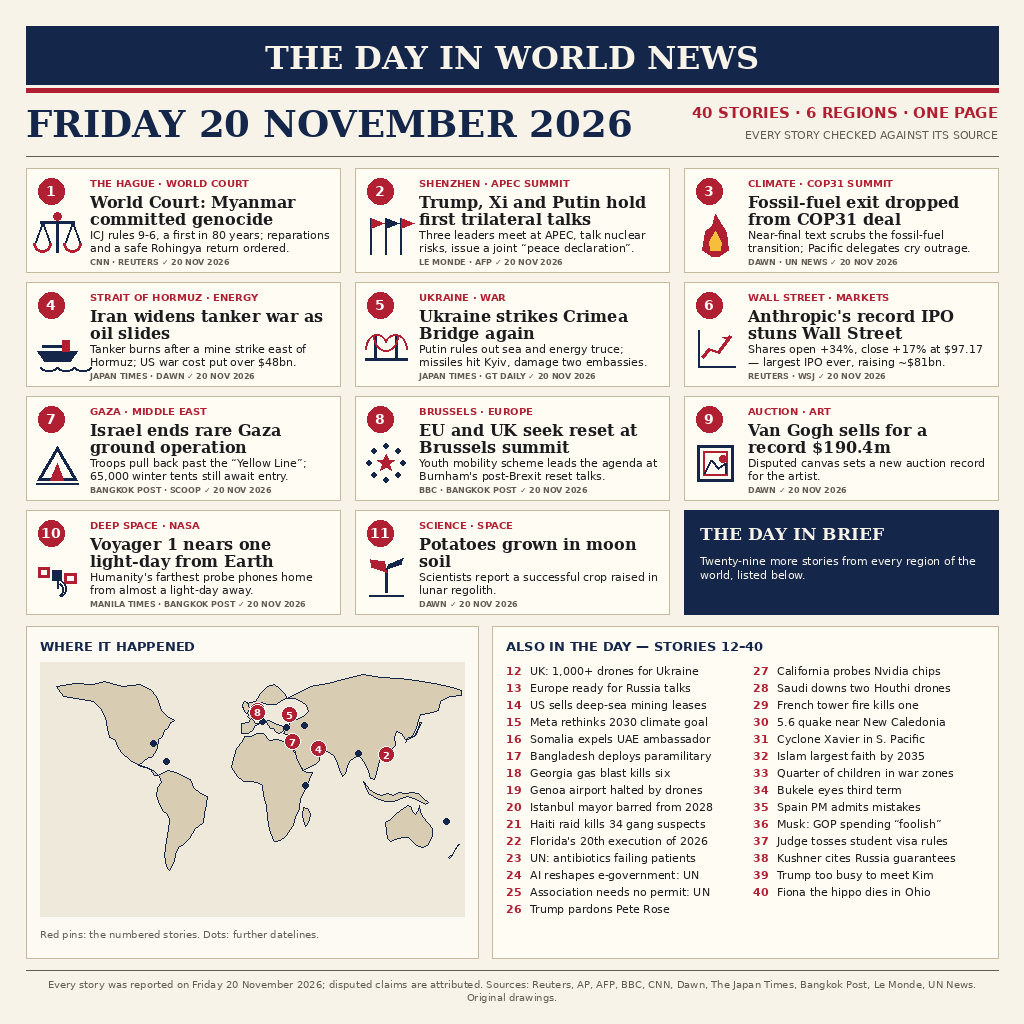
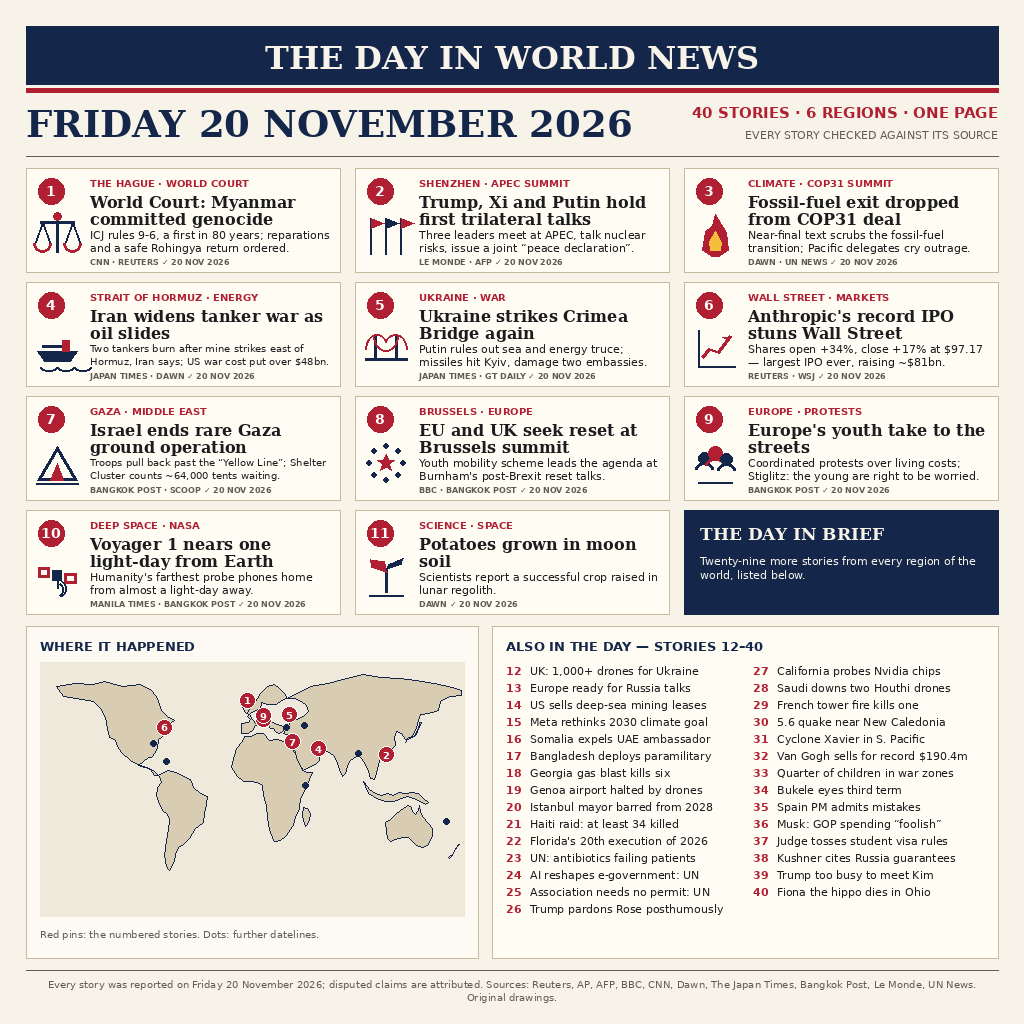
Review fixes: attribute Iran mine claim, Shelter Cluster tents figure, at-least and posthumous wording, swap Van Gogh card for 20 Nov protests, more map pins

diff --git a/build_page.py b/build_page.py
@@ -83,8 +83,8 @@ CARDS = [
     (
         "STRAIT OF HORMUZ · ENERGY",
         "Iran widens tanker war as oil slides",
-        "Tanker burns after a mine strike east of Hormuz; US war "
-        "cost put over $48bn.",
+        "Two tankers burn after mine strikes east of Hormuz, Iran "
+        "says; US war cost put over $48bn.",
         "JAPAN TIMES · DAWN",
         "tanker",
     ),
@@ -107,8 +107,8 @@ CARDS = [
     (
         "GAZA · MIDDLE EAST",
         "Israel ends rare Gaza ground operation",
-        "Troops pull back past the \u201cYellow Line\u201d; 65,000 winter "
-        "tents still await entry.",
+        "Troops pull back past the \u201cYellow Line\u201d; Shelter Cluster "
+        "counts ~64,000 tents waiting.",
         "BANGKOK POST · SCOOP",
         "tent",
     ),
@@ -121,11 +121,12 @@ CARDS = [
         "stars",
     ),
     (
-        "AUCTION · ART",
-        "Van Gogh sells for a record $190.4m",
-        "Disputed canvas sets a new auction record for the artist.",
-        "DAWN",
-        "frame",
+        "EUROPE · PROTESTS",
+        "Europe's youth take to the streets",
+        "Coordinated protests over living costs; Stiglitz: the "
+        "young are right to be worried.",
+        "BANGKOK POST",
+        "crowd",
     ),
     (
         "DEEP SPACE · NASA",
@@ -156,18 +157,18 @@ LISTED = [
     "Georgia gas blast kills six",
     "Genoa airport halted by drones",
     "Istanbul mayor barred from 2028",
-    "Haiti raid kills 34 gang suspects",
+    "Haiti raid: at least 34 killed",
     "Florida's 20th execution of 2026",
     "UN: antibiotics failing patients",
     "AI reshapes e-government: UN",
     "Association needs no permit: UN",
-    "Trump pardons Pete Rose",
+    "Trump pardons Rose posthumously",
     "California probes Nvidia chips",
     "Saudi downs two Houthi drones",
     "French tower fire kills one",
     "5.6 quake near New Caledonia",
     "Cyclone Xavier in S. Pacific",
-    "Islam largest faith by 2035",
+    "Van Gogh sells for record $190.4m",
     "Quarter of children in war zones",
     "Bukele eyes third term",
     "Spain PM admits mistakes",
@@ -303,8 +304,11 @@ CONTINENTS = [
 # plain dots for listed stories.
 PINS_NUMBERED = [
     (1, 4.9, 52.1), (2, 114.1, 22.5), (4, 56.5, 26.5), (5, 31.5, 49.0),
-    (7, 34.3, 31.4), (8, 4.35, 50.85),
+    (6, -74.0, 40.7), (7, 34.3, 31.4), (8, 4.35, 50.85), (9, 10.0, 48.5),
 ]
+# Pixel nudges so near-coincident datelines stay readable (The Hague
+# sits almost on top of Brussels at this scale).
+PIN_OFFSETS = {1: (-10, -10), 8: (6, 7)}
 PINS_DOTS = [
     (90.4, 23.8), (45.3, 2.0), (29.0, 41.0), (-72.3, 18.5),
     (165.0, -21.5), (8.9, 44.4), (-84.0, 30.4), (44.8, 41.7),
@@ -331,6 +335,8 @@ def draw_map(draw, x0, y0, w, h):
     pin_font = font(SANS_BOLD, 10)
     for number, lon, lat in PINS_NUMBERED:
         px, py = project(lon, lat)
+        ox, oy = PIN_OFFSETS.get(number, (0, 0))
+        px, py = px + ox, py + oy
         r = 8
         draw.ellipse([px - r, py - r, px + r, py + r], fill=RED,
                      outline=(255, 255, 255), width=1)
@@ -468,6 +474,17 @@ def icon_satellite(draw, x, y, s):
              300, 60, fill=NAVY, width=2)
 
 
+def icon_crowd(draw, x, y, s):
+    heads = [(0.28, 0.40, 6), (0.52, 0.30, 7), (0.74, 0.42, 6)]
+    for i, (fx, fy, r) in enumerate(heads):
+        cx, cy = x + s * fx, y + s * fy
+        draw.ellipse([cx - r, cy - r, cx + r, cy + r],
+                     fill=RED if i == 1 else NAVY)
+        draw.arc([cx - r - 3, cy + r - 2, cx + r + 3, cy + r + 12],
+                 180, 360, fill=RED if i == 1 else NAVY, width=3)
+    _line(draw, [(x + 6, y + s - 4), (x + s - 6, y + s - 4)], width=2)
+
+
 def icon_sprout(draw, x, y, s):
     cx = x + s / 2
     _line(draw, [(cx, y + s - 8), (cx, y + s * 0.34)], width=3)
@@ -484,6 +501,7 @@ ICONS = {
     "tanker": icon_tanker, "bridge": icon_bridge, "chart": icon_chart,
     "tent": icon_tent, "stars": icon_stars, "frame": icon_frame,
     "satellite": icon_satellite, "sprout": icon_sprout,
+    "crowd": icon_crowd,
 }
 
 

diff --git a/NEWS_SOURCES.md b/NEWS_SOURCES.md
@@ -18,9 +18,10 @@ item was checked against before it went on the page.
    (Science Media Centre and UN releases); Bangkok Post. Near-final
    texts eliminated the fossil-fuel transition; Pacific reaction.
 4. **Iran widens tanker war as oil slides** — The Japan Times;
-   Dawn; Daily Baku. Tanker fire after a mine strike east of the
-   Strait of Hormuz; Pentagon figure of over $48bn for the US war
-   cost, reported by Dawn.
+   Dawn; Daily Baku. Two tankers burning after mine strikes east
+   of the Strait of Hormuz (the mine claim is Iran's, and is
+   attributed to it on the page); Pentagon figure of over $48bn
+   for the US war cost, reported by Dawn.
 5. **Ukraine strikes Crimea Bridge again** — The Japan Times;
    Daily Baku; GT Daily. Putin refuses a sea or energy truce;
    ballistic missiles on Kyiv; Austrian and Dutch embassies damaged.
@@ -30,12 +31,16 @@ item was checked against before it went on the page.
    largest IPO in history.
 7. **Israel ends rare Gaza ground operation** — Bangkok Post; Scoop
    (Israeli embassy release). Withdrawal beyond the "Yellow Line";
-   nearly 65,000 approved tents awaiting entry into Gaza.
+   the Shelter Cluster count of roughly 64,000 approved tents
+   awaiting entry into Gaza is the figure used on the page
+   (other agencies cite higher counts).
 8. **EU and UK seek reset at Brussels summit** — BBC; Bangkok Post.
    Youth mobility scheme expected in the reset deal; summit hosted
    by Andy Burnham in Brussels.
-9. **Van Gogh sells for a record $190.4m** — Dawn. Record auction
-   price for the artist, reached after a dispute.
+9. **Europe's youth take to the streets** — Bangkok Post;
+   AppiSToS. Coordinated youth action across Europe over living
+   costs, housing and education, called for 20 November; Nobel
+   economist Joseph Stiglitz publicly backed the young protesters.
 10. **Voyager 1 nears one light-day from Earth** — The Manila
     Times; Bangkok Post (most-viewed list). NASA's farthest probe
     approaching the one light-day milestone.
@@ -54,7 +59,7 @@ item was checked against before it went on the page.
     Daily Baku.
 19. Genoa airport drone suspension — Daily Baku.
 20. Turkish court bars Istanbul mayor from 2028 race — GT Daily.
-21. Haiti police raid, at least 34 killed — GT Daily.
+21. Haiti police raid, at least 34 killed — GT Daily; Reuters.
 22. Florida record 20th execution of the year — GT Daily;
     The Manila Times.
 23. Antibiotics failing against common infections — UN News
@@ -69,8 +74,8 @@ item was checked against before it went on the page.
     Daily Baku.
 30. Magnitude 5.6 earthquake near New Caledonia — Daily Baku.
 31. Cyclone Xavier track updates — RSMC Nadi via AppiSToS.
-32. Islam forecast to become largest faith by 2035 — Dawn;
-    GT Daily.
+32. Van Gogh painting sells for a record $190.4m — Dawn. Record
+    auction price for the artist, reached after a dispute.
 33. Save the Children: a quarter of children in conflict zones —
     Le Monde.
 34. Bukele expected to formalise third-term bid — GT Daily.
